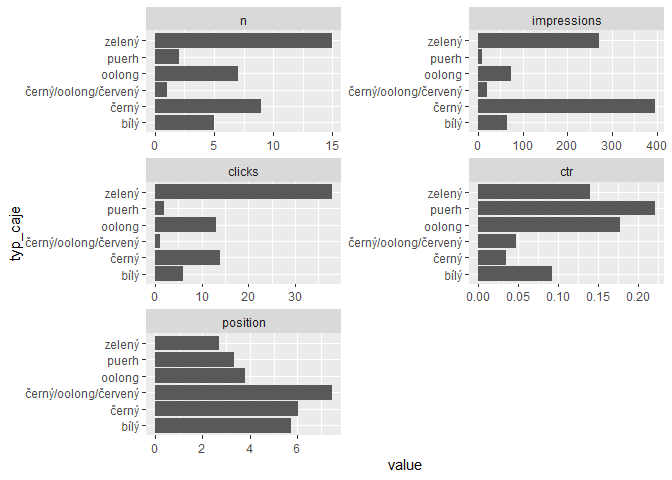
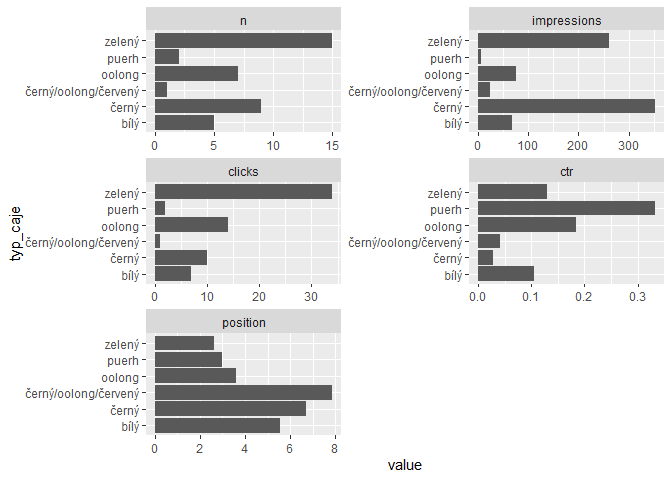
podrobnější instrukce

diff --git a/klasifikace-caju.md b/klasifikace-caju.md
@@ -1,18 +1,46 @@
 Klasifikace dotazů ze Search Console pomocí OpenAI API
 ================
 Marek Prokop
-5. 5. 2023
+7. 5. 2023
 
 ## Zadání úlohy
 
 1.  Stáhnu data dotazů ze Search Console.
 2.  Pomocí OpenAI dotazy zjednodušeně oklasifikuju a nasegmentuju.
 3.  Metriky za segmenty dotazů nějak vizualizuju.
-4.  Klasifikaci dotazů uložím do Google Sheets pro Looker Studio.
+4.  Klasifikaci dotazů uložím do [Google
+    Sheets](https://docs.google.com/spreadsheets/d/1oEGm7bAmJfC_efGu-unXdhHw9AGxMTmWULslLiNWrCY/edit#gid=1853344797)
+    pro [Looker
+    Studio](https://lookerstudio.google.com/u/0/reporting/6ecd0996-1f8e-4b4a-b26d-742285b25abb/page/p_yuweto9s5c).
+
+## Příprava
+
+Musíte mít přístup k [Search
+Consoli](https://search.google.com/search-console) alespoň jednoho webu.
+Dále musíte mít přístup k [OpenAI API](https://platform.openai.com/) a
+[vygenerovaný API klíč](https://platform.openai.com/account/api-keys).
+
+Skript počítá s tím, že máte v proměnné prostředí `MY_GOOGLE_ACCOUNT`
+uloženou e-mailovou adresu svého Google účtu a v proměnné prostředí
+`OPENAI_API_KEY` klíč k API OpenAI. Tyto proměnné vytvoříte např. takto:
+
+1.  Nainstalujte si balíček *usethis*.
+
+2.  Z konsole zadejte příkaz `usethis::edit_r_environ()`. Tím se vám v
+    editoru otevře soubor *.Renviron*.
+
+3.  Do souboru *.Renviron* přidejte tyto dva řádky s upravenými
+    hodnotami:
+
+        MY_GOOGLE_ACCOUNT = "vas.email@gmail.com"
+        OPENAI_API_KEY = "váš_api_key"
+
+4.  Soubor uložte a restartujte R (v RStudiu příkazem *Restart R* z menu
+    *Session*).
 
 ## Balíčky
 
-Připojím potřebné balíčky.
+Připojím potřebné balíčky. Pokud je nemáte nainstalované, nainstalujte.
 
 ``` r
 library(tidyverse)
@@ -30,7 +58,7 @@ Autorizuju Search Console API.
 scr_auth(email = Sys.getenv("MY_GOOGLE_ACCOUNT"))
 ```
 
-Vyberu si účet, se kterým budu pracovat.
+Vyberu si účet, se kterým budu pracovat. Vy si vyberte nějaký svůj.
 
 ``` r
 list_websites() |> 
@@ -52,21 +80,23 @@ queries |>
   slice_max(order_by = impressions, n = 10)
 ```
 
-               query clicks impressions         ctr position
-    1            cha      1         681 0.001468429 7.977974
-    2     darjeeling      2         287 0.006968641 7.435540
-    3         gaiwan      5         104 0.048076923 4.961538
-    4        kukicha     10          77 0.129870130 3.376623
-    5   dračí studna      0          76 0.000000000 4.618421
-    6         oolong      0          75 0.000000000 6.186667
-    7        hojicha     10          57 0.175438596 1.385965
-    8     vodní víla      1          43 0.023255814 2.790698
-    9  gruzínský čaj      0          43 0.000000000 7.930233
-    10  pivoňka bílá      0          40 0.000000000 5.725000
+                query clicks impressions         ctr position
+    1             cha      0         644 0.000000000 8.613354
+    2      darjeeling      2         249 0.008032129 8.413655
+    3          gaiwan      5         107 0.046728972 4.915888
+    4    dračí studna      0          76 0.000000000 4.697368
+    5         kukicha      9          69 0.130434783 3.275362
+    6         hojicha      8          52 0.153846154 1.576923
+    7   gruzínský čaj      0          44 0.000000000 7.840909
+    8      vodní víla      1          41 0.024390244 2.878049
+    9    pivoňka bílá      0          38 0.000000000 5.526316
+    10 čaj darjeeling      1          36 0.027777778 2.666667
 
 ## Klasifikace pomoci OpenAI API
 
-Definuju šablonu promptu.
+Definuju šablonu promptu. Vy si definujte svou šablonu, kterou si předem
+otestujte přímo v ChatGPT nebo v ještě lépe v
+[Playougroundu](https://platform.openai.com/playground).
 
 ``` r
 prompt_template <- read_lines("
@@ -117,13 +147,13 @@ queries$query |>
 ```
 
     $`1`
-    [1] "hojicha\nkukicha\nčaj týdne\ngaiwan\nčaj gaba\ngaba oolong\nútesový čaj\ndarjeeling\ngaba čaj účinky\nhojicha čaj\nhojicha čaj účinky\nkukicha čaj\nmatcha iri sencha\nutesovy caj\nyue guang bai\nzheng shan xiao zhong\nčaj kukicha\nbílá pivoňka čaj\ncha\nda hong pao"
+    [1] "kukicha\nhojicha\nčaj týdne\ngaiwan\nkukicha čaj\nčaj gaba\ngaba oolong\ndarjeeling\ngaba čaj\ngaba čaj účinky\nhojicha čaj účinky\nmatcha iri sencha\nya bao\nyue guang bai\nbílá pivoňka čaj\nda hong pao\ndarjeeling margaret's hope\ndian hong gong fu\ndraci studna\ndračí oči čaj"
 
     $`2`
-    [1] "darjeeling margaret's hope\ndian hong gong fu\ndraci studna\ngaba caj\ngaba čaj\ngaiwan sada\ngong fu cha\nhohicha\njaponský čaj kukicha\nkukicha čaj účinky\nlisovaný čaj\nliu bao tea\nmi lan xiang\nnejlepší čaj\noolong gaba\npai mu tan\npivonka bila\nsencha matcha\nsilný zelený čaj\ntamaryokucha"
+    [1] "gaba caj\ngaiwan sada\ngong fu cha\nhohicha\nhojicha čaj\njaponský čaj kukicha\nkukicha čaj účinky\nlisovaný čaj\nliu bao tea\nnejlepší čaj\noolong gaba\npai mu tan\npivonka bila\nsencha matcha\nsilný zelený čaj\ntamaryokucha\ntie guan yin\nutesovy caj\nutesovy čaj\nvodní víla"
 
     $`3`
-    [1] "tie guan yin\ntinderet\ntung ting\nutesovy čaj\nvodní víla"
+    [1] "vonící orchidej\nxiao zhong\nyin zhen\nzheng shan xiao zhong\nzlaty caj"
 
 Připravím funkci, která z jedné dávky dotazů a šablony sestaví prompt.
 
@@ -141,26 +171,26 @@ queries$query |>
 
     Klasifikuj následující seznam vyhledávacích dotazů:
 
-    hojicha
     kukicha
+    hojicha
     čaj týdne
     gaiwan
+    kukicha čaj
     čaj gaba
     gaba oolong
-    útesový čaj
     darjeeling
+    gaba čaj
     gaba čaj účinky
-    hojicha čaj
     hojicha čaj účinky
-    kukicha čaj
     matcha iri sencha
-    utesovy caj
+    ya bao
     yue guang bai
-    zheng shan xiao zhong
-    čaj kukicha
     bílá pivoňka čaj
-    cha
     da hong pao
+    darjeeling margaret's hope
+    dian hong gong fu
+    draci studna
+    dračí oči čaj
 
     U každého dotazu uveď, zda označuje čaj (ano/ne), a pokud ano, napiš typ čaje (černý, zelený, bílý, oolong, puerh) a zemi původu. Výsledky uspořádej do tabulky ve formátu CSV s hodnotami oddělenými čárkou.
 
@@ -188,26 +218,26 @@ queries |>
     $`1`
     Klasifikuj následující seznam vyhledávacích dotazů:
 
-    hojicha
     kukicha
+    hojicha
     čaj týdne
     gaiwan
+    kukicha čaj
     čaj gaba
     gaba oolong
-    útesový čaj
     darjeeling
+    gaba čaj
     gaba čaj účinky
-    hojicha čaj
     hojicha čaj účinky
-    kukicha čaj
     matcha iri sencha
-    utesovy caj
+    ya bao
     yue guang bai
-    zheng shan xiao zhong
-    čaj kukicha
     bílá pivoňka čaj
-    cha
     da hong pao
+    darjeeling margaret's hope
+    dian hong gong fu
+    draci studna
+    dračí oči čaj
 
     U každého dotazu uveď, zda označuje čaj (ano/ne), a pokud ano, napiš typ čaje (černý, zelený, bílý, oolong, puerh) a zemi původu. Výsledky uspořádej do tabulky ve formátu CSV s hodnotami oddělenými čárkou.
 
@@ -221,13 +251,10 @@ queries |>
     $`2`
     Klasifikuj následující seznam vyhledávacích dotazů:
 
-    darjeeling margaret's hope
-    dian hong gong fu
-    draci studna
     gaba caj
-    gaba čaj
     gaiwan sada
     gong fu cha
+    hojicha čaj
     japonský čaj kukicha
     kukicha čaj účinky
     lisovaný čaj
@@ -239,8 +266,11 @@ queries |>
     silný zelený čaj
     tamaryokucha
     tie guan yin
+    utesovy caj
     vodní víla
-    vonící orchidej
+    yin zhen
+    zlaty caj
+    útesový čaj
 
     U každého dotazu uveď, zda označuje čaj (ano/ne), a pokud ano, napiš typ čaje (černý, zelený, bílý, oolong, puerh) a zemi původu. Výsledky uspořádej do tabulky ve formátu CSV s hodnotami oddělenými čárkou.
 
@@ -254,11 +284,9 @@ queries |>
     $`3`
     Klasifikuj následující seznam vyhledávacích dotazů:
 
-    ya bao
-    zelený čaj dračí studna
-    zlaty caj
     čaj darjeeling
     čaj dračí studna
+    čaj kukicha
 
     U každého dotazu uveď, zda označuje čaj (ano/ne), a pokud ano, napiš typ čaje (černý, zelený, bílý, oolong, puerh) a zemi původu. Výsledky uspořádej do tabulky ve formátu CSV s hodnotami oddělenými čárkou.
 
@@ -273,6 +301,10 @@ Vytvořím funkci pro volání OpenAI API a zavolám API se všemi prompty.
 Výsledek uložím do objektu `ai_answer` a ten si pak uložím na disk do
 složky `data`, abych při opakovaném spouštění nevolal placené API
 zbytečně znovu.
+
+Když to budete poprvé zkoušet s vlastními daty, musíte před tím ze
+složky `data` zrušit soubor `ai_answer.rds`. Jinak by se vám z něho
+načitala moje data.
 
 ``` r
 call_ai <- function(prompt) {
@@ -331,34 +363,34 @@ classified_queries |>
 ```
 
                     query clicks impressions        ctr position oznacuje_caj
-    1    čaj dračí studna      1           7 0.14285714 4.000000          ano
-    2  kukicha čaj účinky      1          28 0.03571429 4.892857          ano
-    3          pai mu tan      1          28 0.03571429 8.000000          ano
-    4        draci studna      1          17 0.05882353 2.764706          ano
-    5         hojicha čaj      2           5 0.40000000 1.000000          ano
-    6        nejlepší čaj      1          14 0.07142857 5.642857          ano
-    7            gaba čaj      1          16 0.06250000 2.875000          ano
-    8       sencha matcha      1           8 0.12500000 1.375000          ano
-    9            čaj gaba      4           6 0.66666667 2.000000          ano
-    10       lisovaný čaj      1           5 0.20000000 1.600000          ano
+    1  kukicha čaj účinky      1          30 0.03333333 5.000000          ano
+    2    bílá pivoňka čaj      1           4 0.25000000 1.000000          ano
+    3             hojicha      8          52 0.15384615 1.576923          ano
+    4    čaj dračí studna      1           7 0.14285714 4.000000          ano
+    5      čaj darjeeling      1          36 0.02777778 2.666667          ano
+    6         gaiwan sada      1           9 0.11111111 1.000000           ne
+    7         hojicha čaj      1           4 0.25000000 1.000000          ano
+    8                 cha      0         644 0.00000000 8.613354          ano
+    9        lisovaný čaj      1           4 0.25000000 1.500000          ano
+    10  matcha iri sencha      2           5 0.40000000 1.000000          ano
        typ_caje zeme_puvodu
-    1    zelený        Čína
-    2    zelený    Japonsko
-    3      bílý        Čína
+    1    zelený    Japonsko
+    2      bílý        Čína
+    3    zelený    Japonsko
     4    zelený        Čína
-    5    zelený    Japonsko
+    5     černý       Indie
     6      <NA>        <NA>
-    7    oolong   Tchaj-wan
-    8    zelený    Japonsko
-    9    oolong   Tchaj-wan
-    10    puerh        Čína
+    7    zelený    Japonsko
+    8      <NA>        <NA>
+    9     puerh        Čína
+    10   zelený    Japonsko
 
 ``` r
 classified_queries |> count(oznacuje_caj, sort = TRUE)
 ```
 
       oznacuje_caj   n
-    1         <NA> 448
+    1         <NA> 419
     2          ano  42
     3           ne   3
 
@@ -367,7 +399,7 @@ classified_queries |> count(typ_caje, sort = TRUE)
 ```
 
                   typ_caje   n
-    1                 <NA> 454
+    1                 <NA> 425
     2               zelený  15
     3                černý   9
     4               oolong   7
@@ -380,7 +412,7 @@ classified_queries |> count(zeme_puvodu, sort = TRUE)
 ```
 
         zeme_puvodu   n
-    1          <NA> 454
+    1          <NA> 425
     2          Čína  18
     3      Japonsko  11
     4     Tchaj-wan   5
